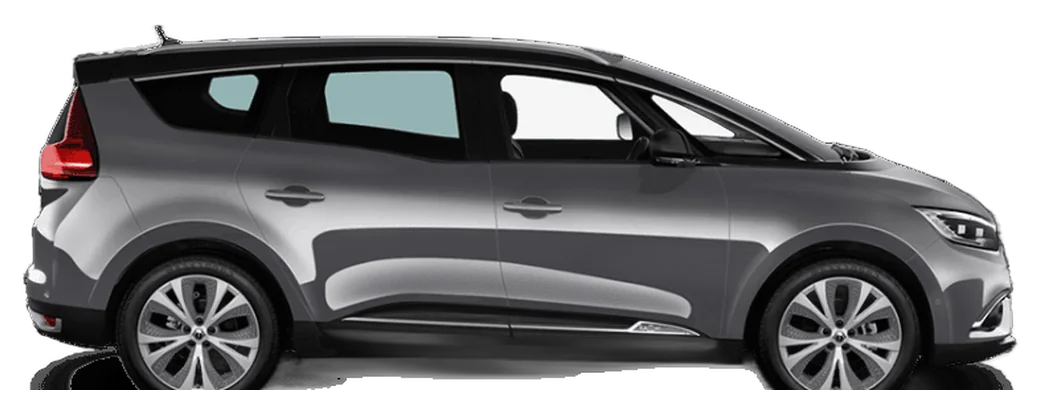
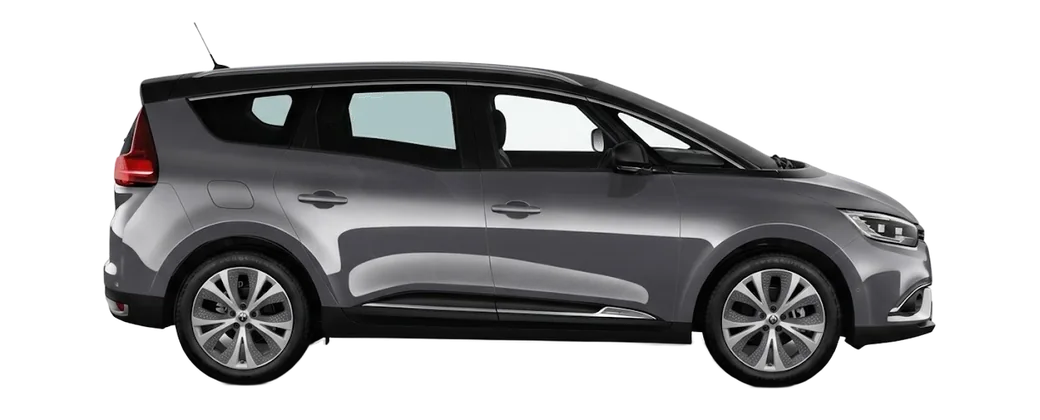
Silhouette couleur du monospace : bonne photo du Grand Scénic (HD, avant à droite, sans ombre résiduelle)

diff --git a/washboard/scripts/silhouettes/decoupe.py b/washboard/scripts/silhouettes/decoupe.py
@@ -64,7 +64,9 @@ PHOTOS = {
     '2-SUV-4x4-Lexus.png': ('SUV', {'miroir': True}),
     '3-7-places-Dacia-Jogger.png': ('7places', {'fond_blanc': False}),
     '4-berline-Audi-A8.png': ('berline', {}),
-    '5-monospace-Grand-Scenic.png': ('monospace', {'miroir': True, 'sol': 279}),
+    # Grand Scénic : la photo du zip était petite (1080 × 305) et tournée vers la gauche ; Alexandre a
+    # donné la bonne (1024 × 765, avant à droite, ombre de studio sous la voiture).
+    '5-monospace-Grand-Scenic-HD.png': ('monospace', {}),
     '6-citadine-2-places-Aygo-X.png': ('citadine_2p', {'miroir': True}),
     '7-van-utilitaire-Transit-Custom.png': ('utilitaire', {}),
 }
